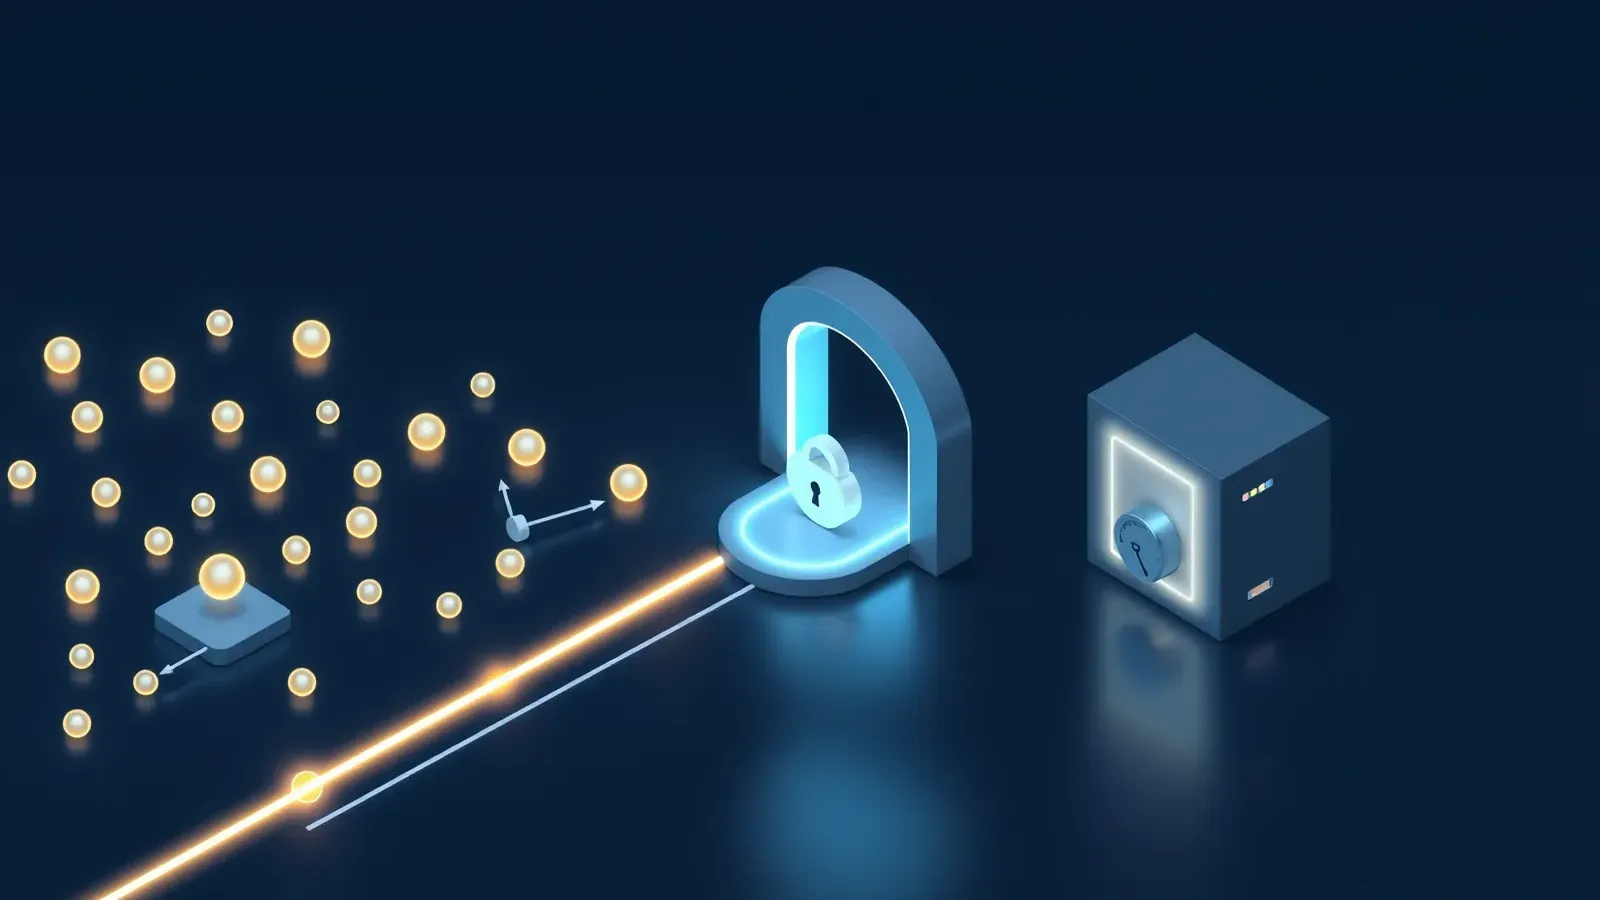
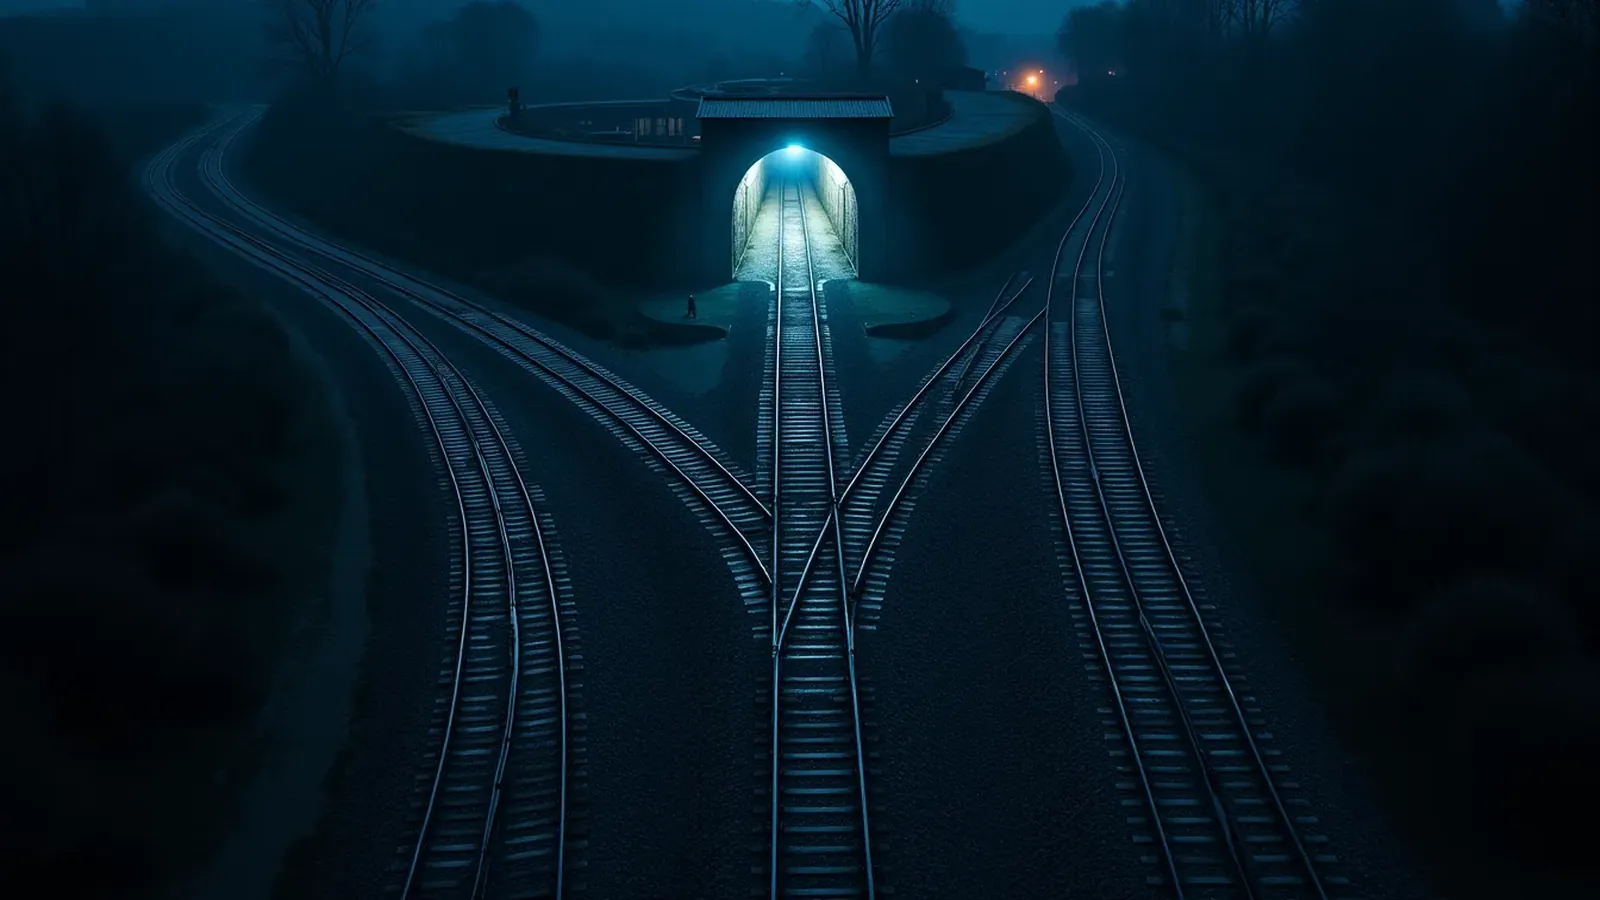
feat(articles): replace cover images with round-2 editorial images and match alt text
Claude-Session: https://claude.ai/code/session_01D4y9jMCxf62ep3kY3DkQea

diff --git a/src/content/articles/one-coordinator-many-ai-workers.ts b/src/content/articles/one-coordinator-many-ai-workers.ts
@@ -9,7 +9,7 @@ const article: Article = {
     title: 'One Coordinator, Many AI Workers: A Workflow You Can Trust',
     description:
       'How I turned scattered AI tools into one accountable workflow, with written briefs and an independent checker: 284 tasks in one night.',
-    imageAlt: 'A central coordinator handing written briefs to several AI workers, with a separate checker inspecting the finished work.',
+    imageAlt: 'A conductor seen from behind on a dark stage, baton raised, facing rows of music stands that each hold one sheet of music.',
     body: [
       {
         type: 'p',
@@ -91,7 +91,7 @@ const article: Article = {
     title: 'منسّق واحد وعدة وكلاء ذكاء اصطناعي: سير عمل يمكن الوثوق به',
     description:
       'كيف حوّلت أدوات الذكاء الاصطناعي المتفرقة إلى سير عمل منظم وقابل للمساءلة بتكليفات مكتوبة ومراجع مستقل: 284 مهمة في ليلة واحدة.',
-    imageAlt: 'منسّق مركزي يوزّع تكليفات مكتوبة على عدة وكلاء ذكاء اصطناعي، ومدقّق مستقل يفحص العمل المنجز.',
+    imageAlt: 'قائد أوركسترا من الخلف على مسرح مظلم يرفع عصاه أمام صفوف من حوامل النوتة، على كل منها ورقة واحدة.',
     body: [
       {
         type: 'p',

diff --git a/src/content/articles/monitoring-that-checks-the-work.ts b/src/content/articles/monitoring-that-checks-the-work.ts
@@ -9,7 +9,7 @@ const article: Article = {
     title: 'All Green, Zero Work: AI Monitoring That Checks the Work',
     description:
       'My dashboard showed all green while zero tasks were completed in 4.5 hours. How I rebuilt AI agent monitoring to check the work, not just the lights.',
-    imageAlt: 'A green status dashboard beside an idle conveyor, while an independent inspector raises an alert.',
+    imageAlt: 'An empty, idle conveyor line in front of a wall of green status lights, with one amber warning light glowing beside it.',
     body: [
       {
         type: 'p',
@@ -83,7 +83,7 @@ const article: Article = {
     title: 'كل المؤشرات خضراء ولا عمل يُنجز: مراقبة تتحقق من العمل الفعلي',
     description:
       'لوحة المتابعة أظهرت أن كل شيء سليم بينما لم تُنجز أي مهمة خلال أربع ساعات ونصف. هكذا أعدت بناء المراقبة لتتحقق من العمل المنجز لا من المؤشرات فقط.',
-    imageAlt: 'لوحة متابعة خضراء بجانب خط إنتاج متوقف، بينما يرفع مفتّش مستقل تنبيهًا.',
+    imageAlt: 'خط إنتاج فارغ ومتوقف أمام جدار من مؤشرات خضراء، وبجانبه ضوء تحذير كهرماني واحد.',
     body: [
       {
         type: 'p',

diff --git a/src/content/articles/right-ai-model-for-each-request.ts b/src/content/articles/right-ai-model-for-each-request.ts
@@ -9,7 +9,7 @@ const article: Article = {
     title: 'AI Governance: The Right Model for Each Request',
     description:
       'How an AI gateway routes each request by complexity and data sensitivity, so sensitive data stays where it belongs and every AI cost stays visible.',
-    imageAlt: 'Many requests flowing through one gateway, with sensitive data kept on a locked, protected path.',
+    imageAlt: 'A railway junction at night where one track splits into several, with one track entering a lit, protected tunnel.',
     body: [
       {
         type: 'p',
@@ -94,7 +94,7 @@ const article: Article = {
     title: 'النموذج المناسب لكل طلب: حوكمة الذكاء الاصطناعي عبر بوابة واحدة',
     description:
       'كيف توجّه بوابة الذكاء الاصطناعي كل طلب بحسب تعقيده وحساسية بياناته، فتبقى البيانات الحساسة في مكانها وتبقى تكلفة الذكاء الاصطناعي واضحة.',
-    imageAlt: 'طلبات كثيرة تمر عبر بوابة واحدة، والبيانات الحساسة تبقى على مسار محمي بقفل.',
+    imageAlt: 'تقاطع سكة حديد ليلًا يتفرع فيه خط واحد إلى عدة خطوط، وأحدها يدخل نفقًا مضاءً ومحميًا.',
     body: [
       {
         type: 'p',
